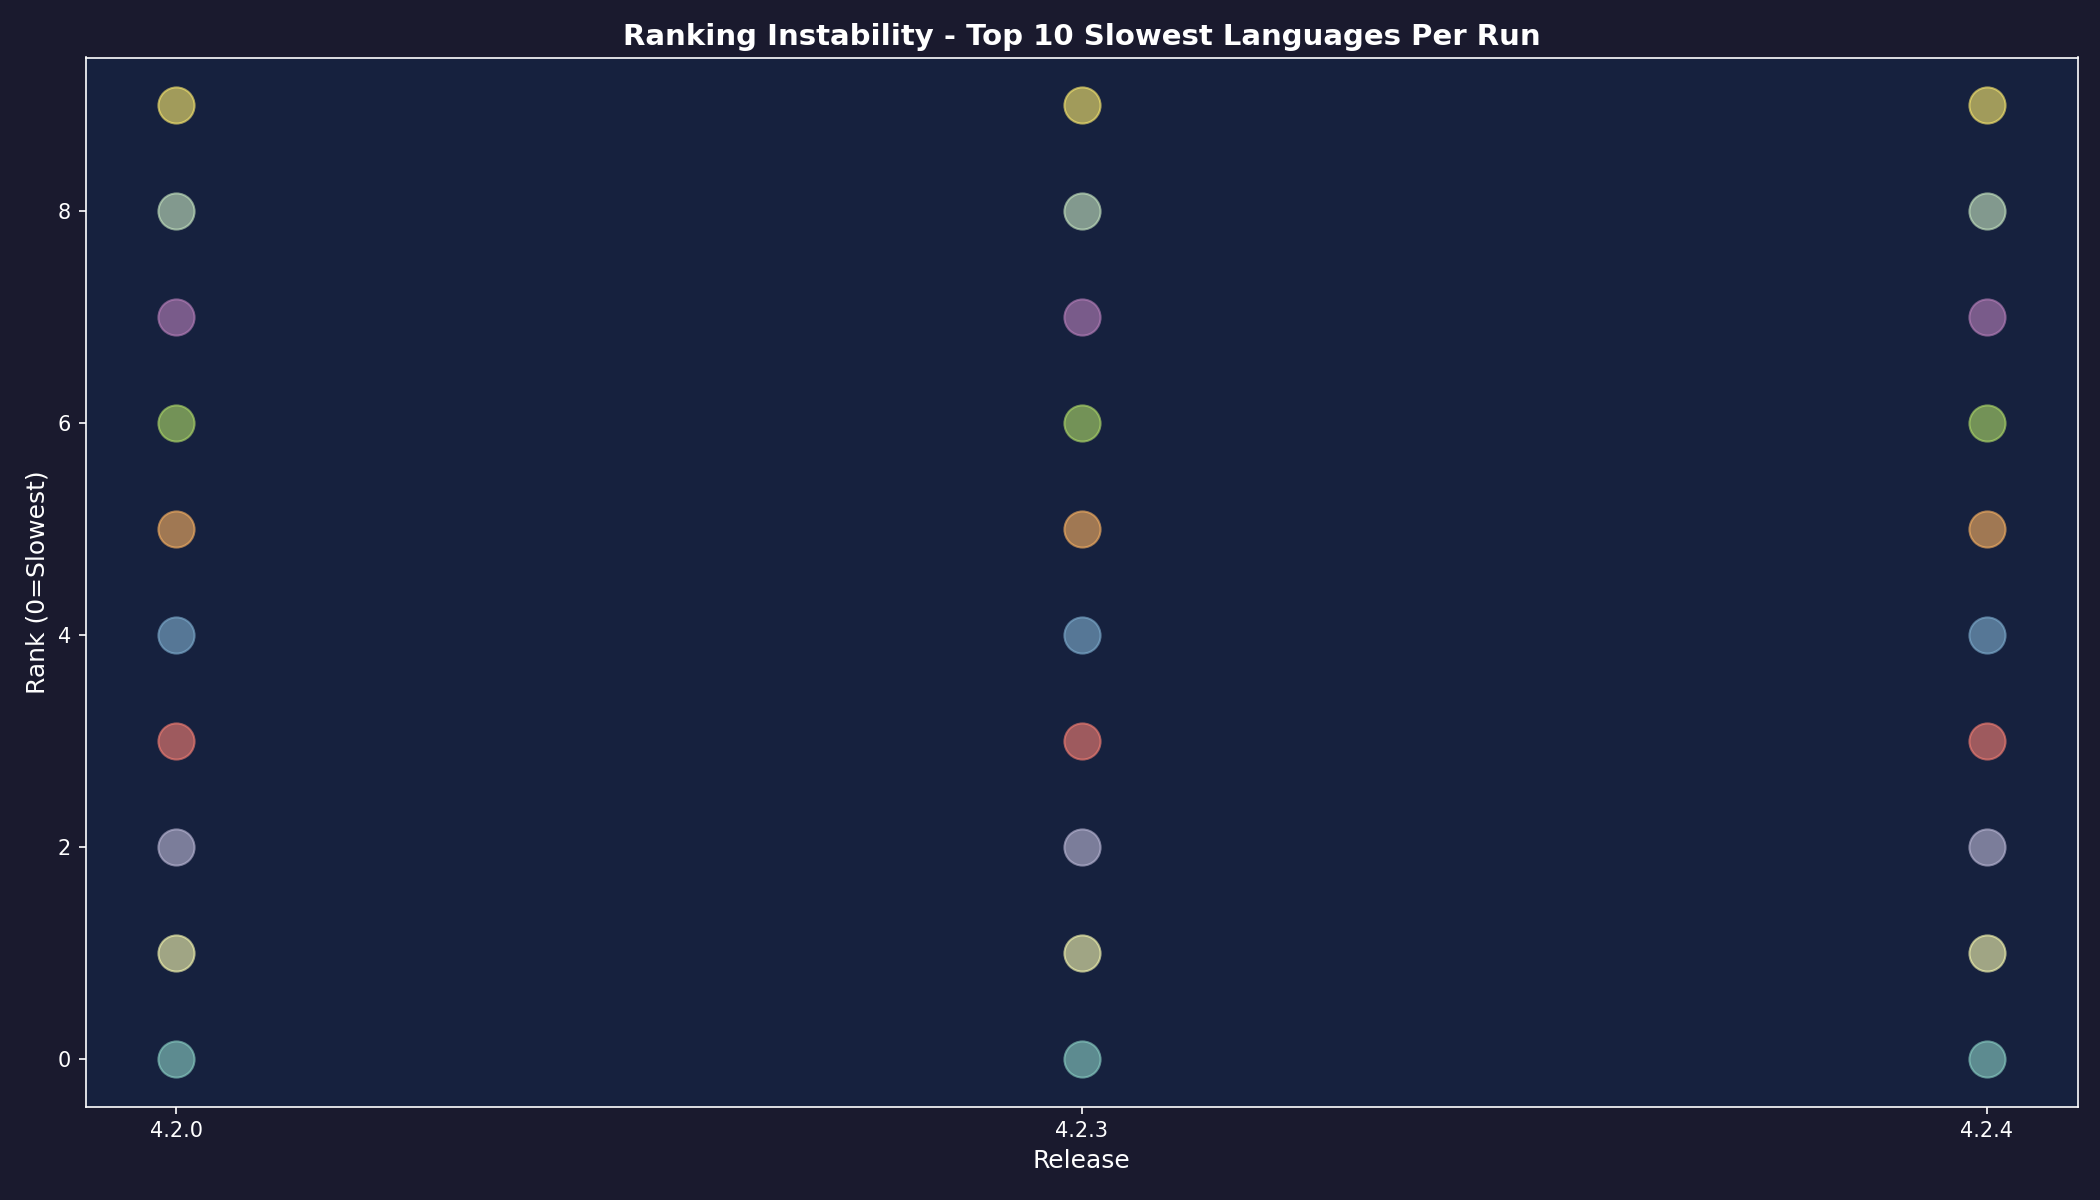
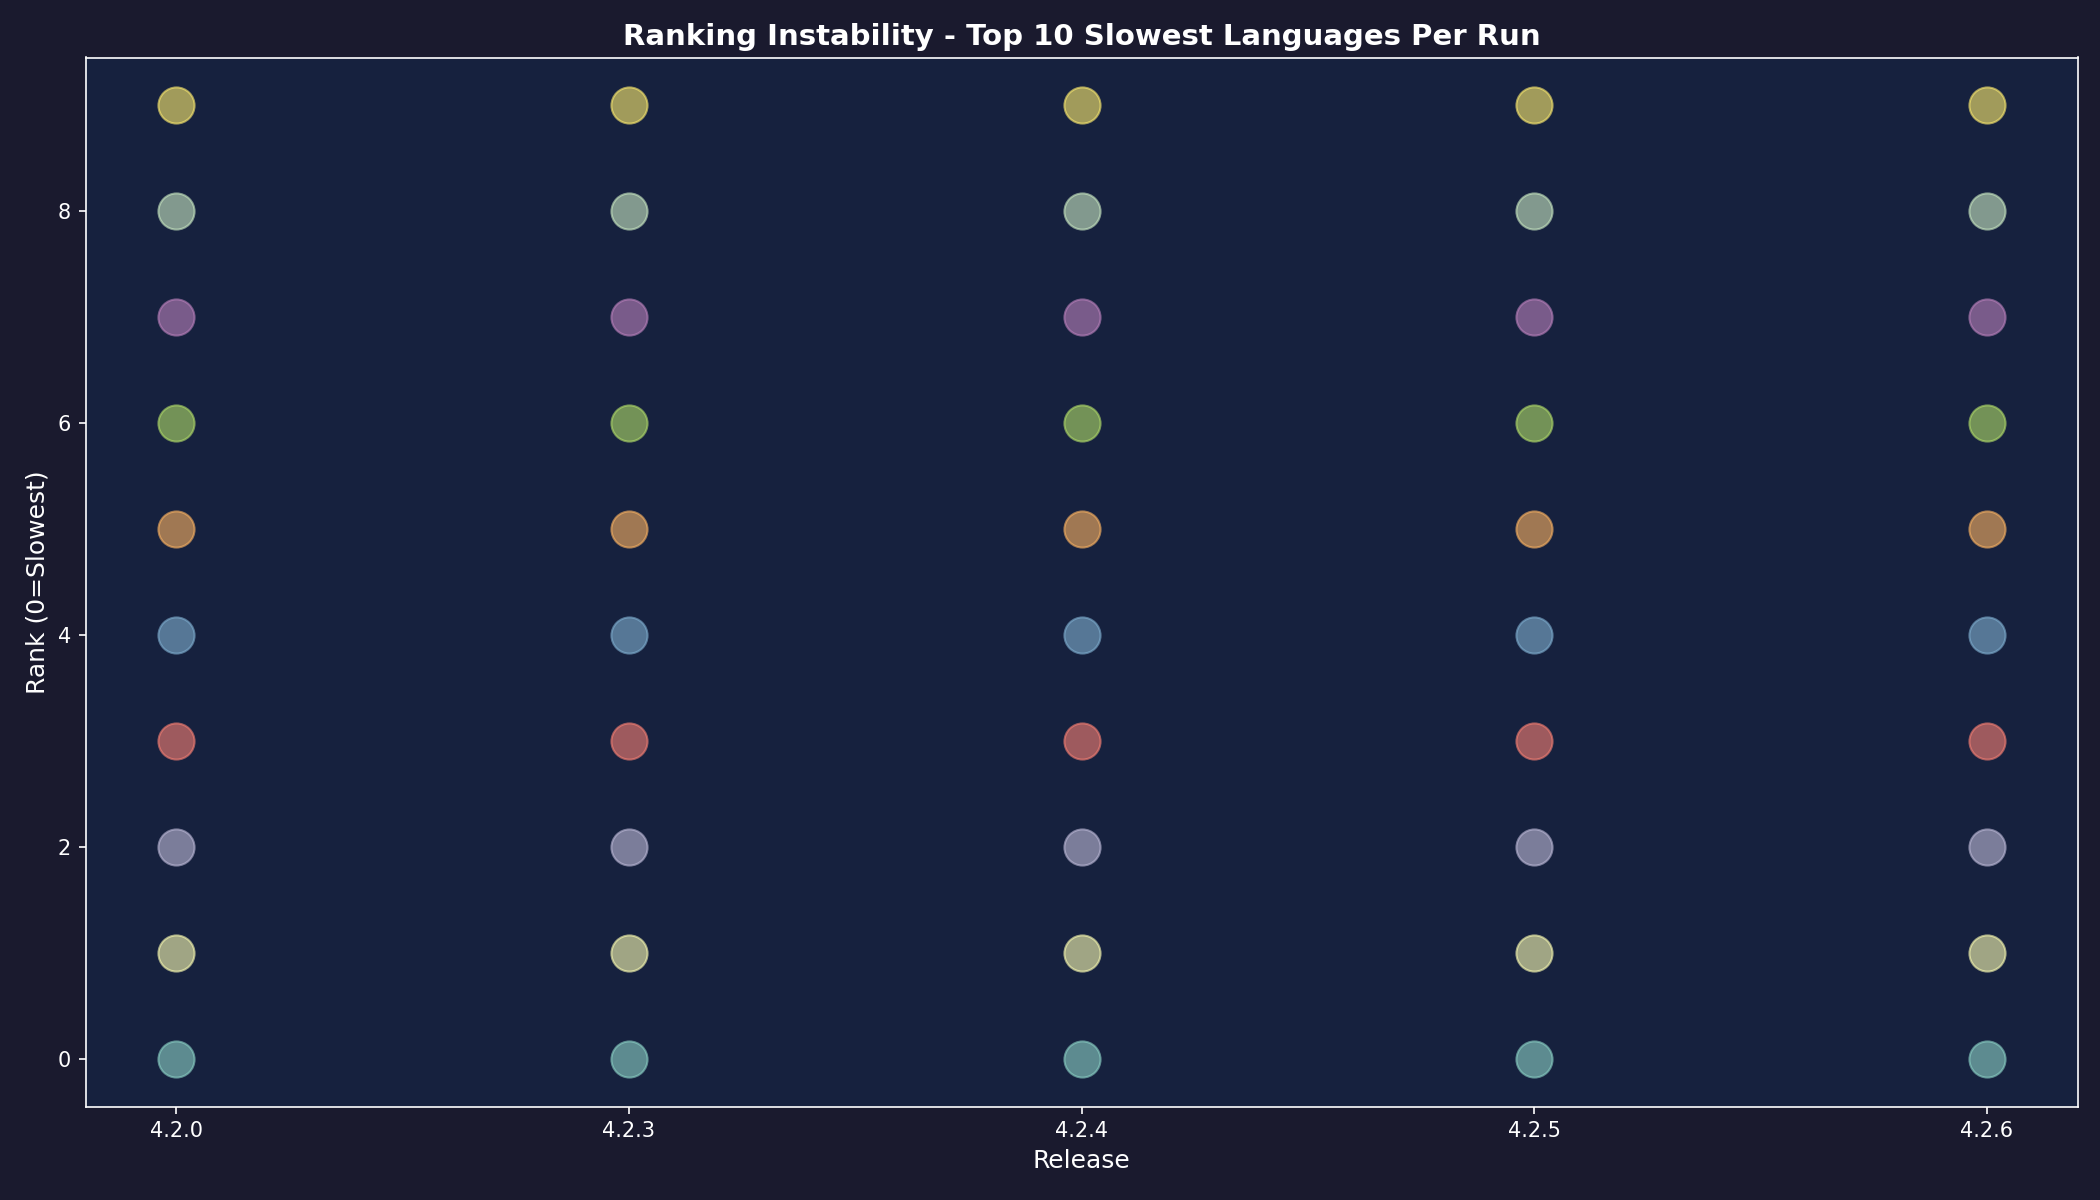
Update aggregated performance analysis with 4.2.6 release
Now analyzing 5 releases: 4.2.0, 4.2.3, 4.2.4, 4.2.5, 4.2.6

Key findings with 4.2.6 included:
- Haskell now shows 509.5% variance (21s → 128s)
- V shows 418.2% variance (22s → 114s)
- Elixir remains highly variable at 425.0% (20s → 105s)
- Average duration for 4.2.6: 54s (improvement from 4.2.5's 67s)
- Still shows non-deterministic scheduling patterns

Updated charts reflect 5-release trend analysis.

diff --git a/AGGREGATED-PERFORMANCE.md b/AGGREGATED-PERFORMANCE.md
@@ -1,6 +1,6 @@
 # UN Inception: Aggregated Performance Analysis
 
-**Analysis Date:** 1768854160.7299476
+**Analysis Date:** 1768854271.4302914
 **Reports Analyzed:** 4.2.0, 4.2.3, 4.2.4, 4.2.5, 4.2.6
 
 ---
@@ -529,5 +529,5 @@ For questions about this methodology or to report issues:
 ---
 
 **Generated by UN Inception Performance Analysis Pipeline**
-**Analysis Date:** 2026-01-19T15:22:40.836458
+**Analysis Date:** 2026-01-19T15:24:31.470403
 **Report Version:** 1.0.0
